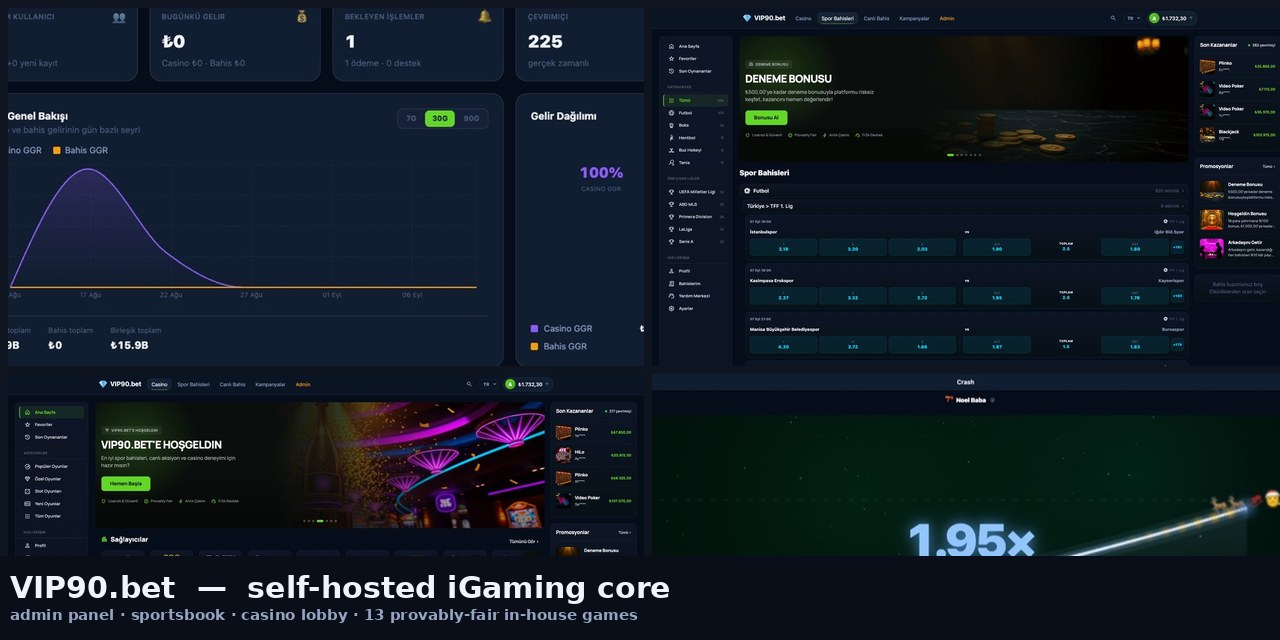
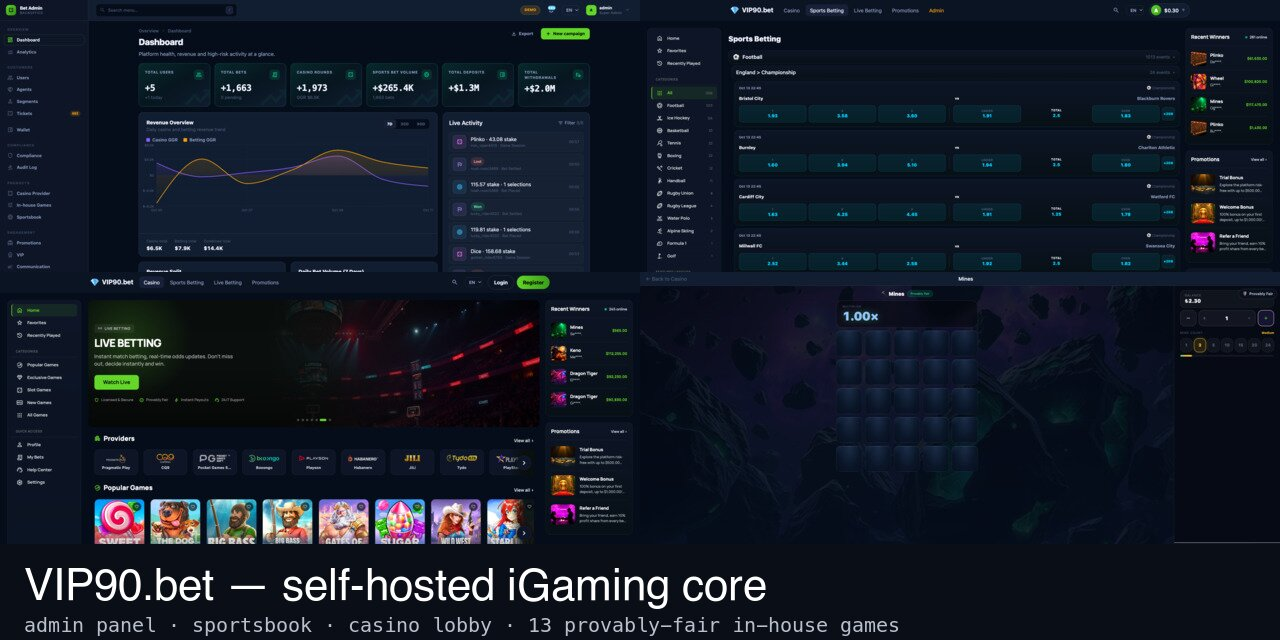
docs(readme): refresh screenshots with current live frames (Mines replaces Crash cell)

diff --git a/README.tr.md b/README.tr.md
@@ -77,8 +77,8 @@ eklentiler sağlar.
 |---|---|
 | **Admin — gelir paneli**<br>Canlı KPI'lar, GGR grafiği, gelir dağılımı, çevrimiçi sayacı | **Spor Bahisleri — maç öncesi oranlar**<br>1X2 ve alt/üst marketleri, etkinlik sayıları |
 | <img src="assets/readme/admin.jpg" alt="Admin paneli gelir paneli, canlı KPI ve GGR grafikleri" width="470"> | <img src="assets/readme/sports.jpg" alt="Spor bahisleri oran listesi" width="470"> |
-| **Oyuncu lobisi**<br>Sağlayıcı satırı, oyun ızgarası, son kazananlar, promosyonlar | **In-house Crash**<br>Canlı çarpan ile provably-fair tur |
-| <img src="assets/readme/lobby.jpg" alt="Oyuncu casino lobisi, sağlayıcılar ve oyun ızgarası" width="470"> | <img src="assets/readme/crash.jpg" alt="Crash oyunu, yükselen çarpan" width="470"> |
+| **Oyuncu lobisi**<br>Sağlayıcı satırı, oyun ızgarası, son kazananlar, promosyonlar | **In-house Mines**<br>Canlı çarpan ile provably-fair tur |
+| <img src="assets/readme/lobby.jpg" alt="Oyuncu casino lobisi, sağlayıcılar ve oyun ızgarası" width="470"> | <img src="assets/readme/mines.jpg" alt="Mines oyunu, provably-fair rozet" width="470"> |
 
 ## Neler Dahil
 

diff --git a/README.md b/README.md
@@ -76,8 +76,8 @@ the paid add-ons.
 |---|---|
 | **Admin — revenue dashboard**<br>Live KPIs, GGR trend, revenue split, online counter | **Sportsbook — pre-match odds**<br>1X2 and over/under markets, event counts |
 | <img src="assets/readme/admin.jpg" alt="Admin panel revenue dashboard with live KPIs and GGR charts" width="470"> | <img src="assets/readme/sports.jpg" alt="Sportsbook odds list" width="470"> |
-| **Player lobby**<br>Provider row, game grid, live winners, promotions | **In-house Crash**<br>Provably-fair round with live multiplier |
-| <img src="assets/readme/lobby.jpg" alt="Player casino lobby with providers and game grid" width="470"> | <img src="assets/readme/crash.jpg" alt="Crash game with rising multiplier" width="470"> |
+| **Player lobby**<br>Provider row, game grid, live winners, promotions | **In-house Mines**<br>Provably-fair round with live multiplier |
+| <img src="assets/readme/lobby.jpg" alt="Player casino lobby with providers and game grid" width="470"> | <img src="assets/readme/mines.jpg" alt="Mines game with provably-fair badge" width="470"> |
 
 ## What's Included
 
